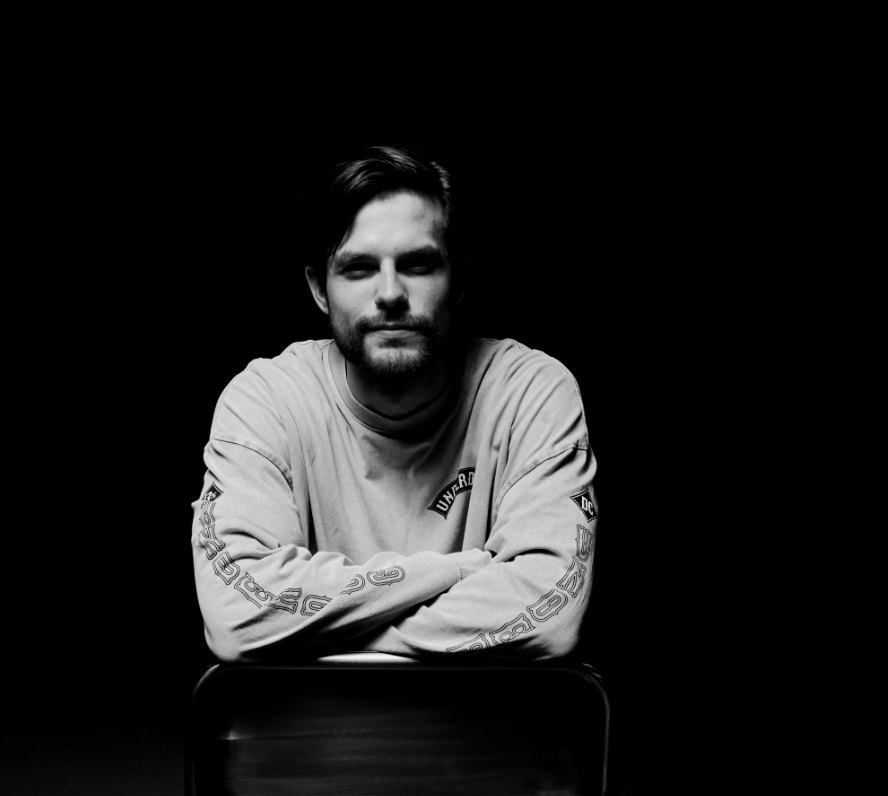
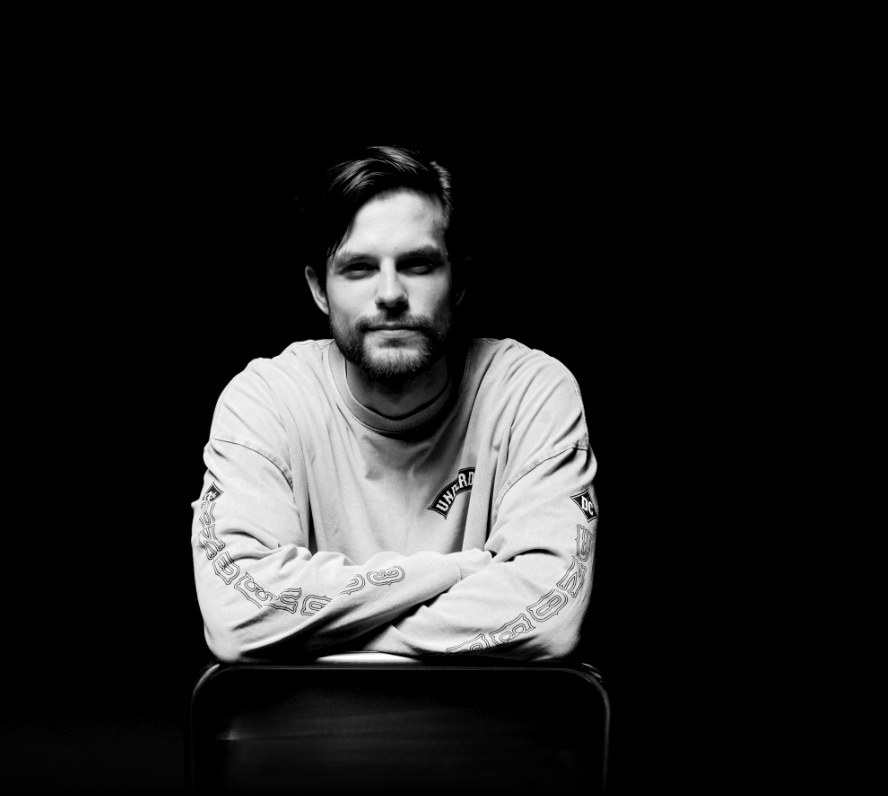
CTA photo: brighter and larger

Changed region(s): [[0.2128, 0.1809, 0.6993, 0.8744], [0.2432, 0.9648, 0.4257, 1.0], [0.6081, 0.995, 0.6689, 1.0]]

diff --git a/index.html b/index.html
@@ -313,9 +313,7 @@
       radial-gradient(circle at 7.5% 20%, rgba(255,255,255,.16) 0 94px, transparent 95px),
       radial-gradient(circle at 18% 20%, rgba(255,255,255,.08) 0 94px, transparent 95px),
       radial-gradient(circle at 13% 100%, rgba(255,255,255,.08) 0 190px, transparent 191px),
-      radial-gradient(circle at 73% 36%, rgba(255,255,255,.09) 0 94px, transparent 95px),
       radial-gradient(circle at 92% 0%, rgba(255,255,255,.08) 0 185px, transparent 186px),
-      radial-gradient(circle at 95% 92%, rgba(255,255,255,.10) 0 94px, transparent 95px),
       repeating-linear-gradient(90deg, transparent 0 125px, rgba(255,255,255,.12) 125px 126px),
       #09072b; }
   .cta h2 { color:#ffffff; margin:0 auto; max-width:820px; font-size:clamp(34px,4.4vw,56px); line-height:1.1; }
@@ -333,11 +331,11 @@
   }
   /* Pasha's photo inside the CTA card: black background melts into the navy (lighten blend) */
   .cta .wrap > * { position:relative; z-index:1; }
-  .cta .wrap::after { content:""; position:absolute; z-index:0; right:3%; bottom:0; width:50%; height:100%; pointer-events:none;
+  .cta .wrap::after { content:""; position:absolute; z-index:0; right:0; bottom:0; width:56%; height:100%; pointer-events:none;
     background:url("pavel-cta.jpg") center bottom/contain no-repeat; mix-blend-mode:lighten;
-    -webkit-mask-image:linear-gradient(to right, transparent 0, #000 14%, #000 86%, transparent 100%); mask-image:linear-gradient(to right, transparent 0, #000 14%, #000 86%, transparent 100%); }
+    -webkit-mask-image:linear-gradient(to right, transparent 0, #000 7%, #000 93%, transparent 100%); mask-image:linear-gradient(to right, transparent 0, #000 7%, #000 93%, transparent 100%); }
   @media (min-width:761px) {
-    .cta .wrap { text-align:left; padding:88px 48% 96px 64px; min-height:540px; }
+    .cta .wrap { text-align:left; padding:96px 52% 104px 64px; min-height:600px; }
     .cta h2 { margin:0; }
     .cta h2::before { margin:0 0 36px; }
     .cta h2::after { margin:20px 0 0; }
@@ -345,7 +343,7 @@
   }
   @media (max-width:760px) {
     .cta .wrap { padding-bottom:0; }
-    .cta .wrap::after { position:relative; display:block; right:auto; width:100%; height:300px; margin-top:28px; }
+    .cta .wrap::after { position:relative; display:block; right:auto; width:calc(100% + 40px); margin-left:-20px; height:400px; margin-top:28px; }
   }
 
 </style>
